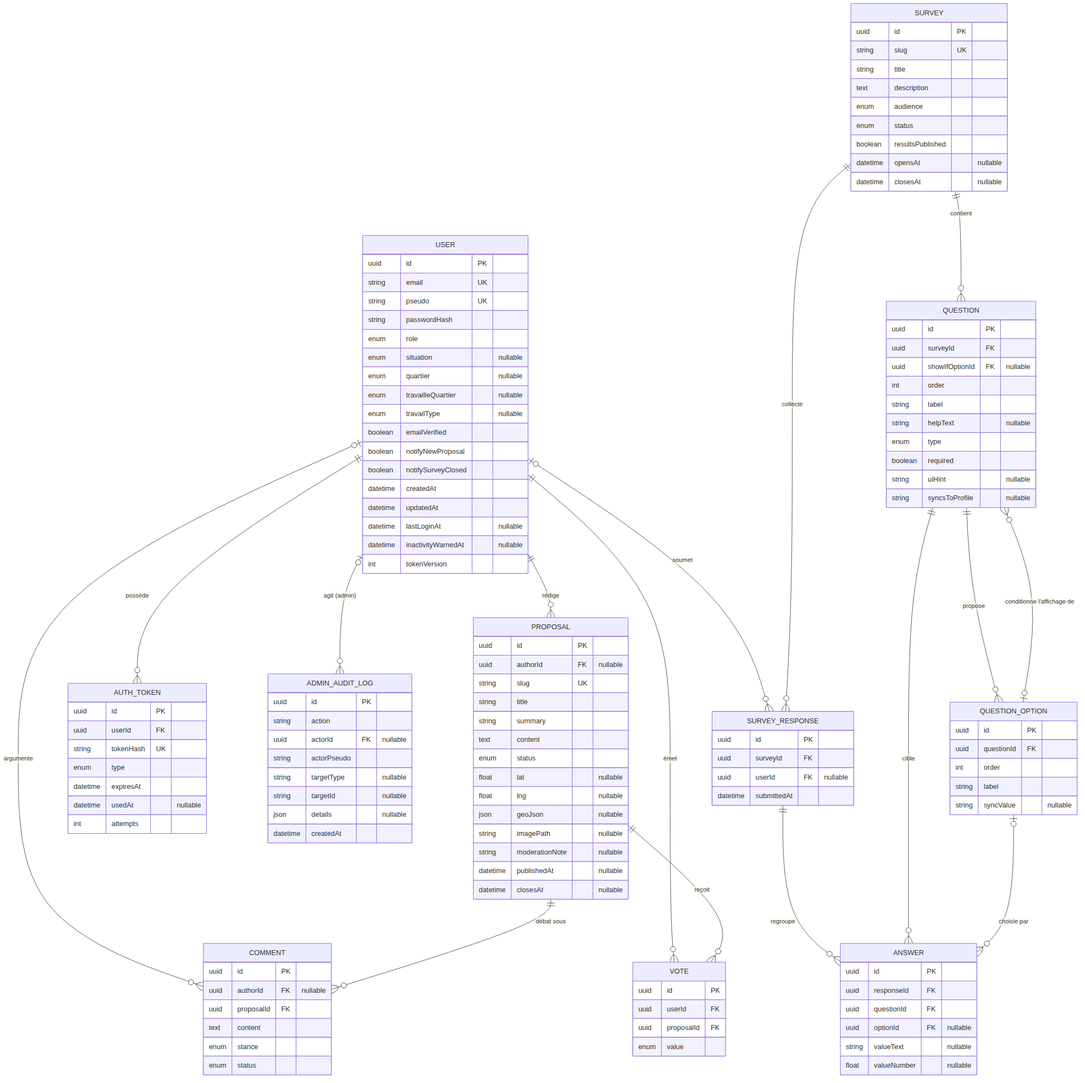
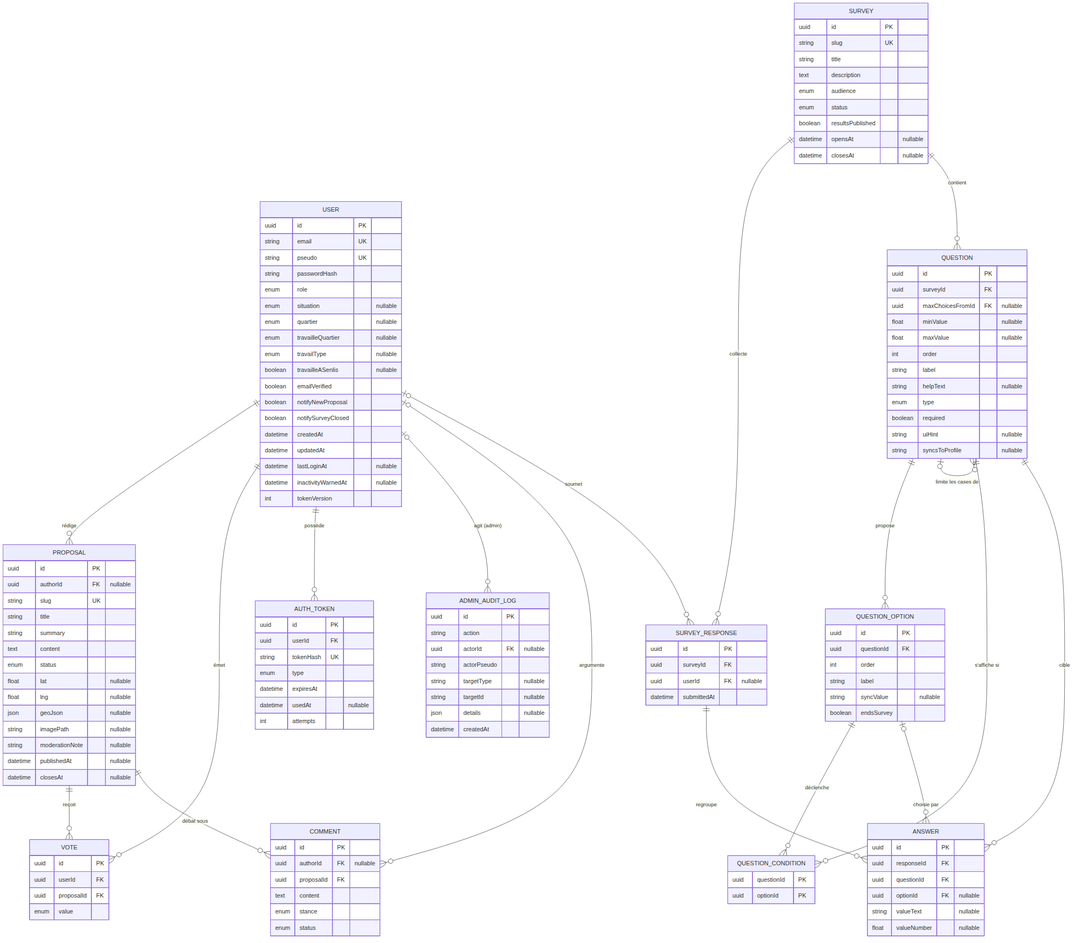
docs: S5R-05 — QuestionCondition, bornes, fin anticipée (02, 03, 08, 19), packages (13), registre (22), kanban (16)

diff --git a/08-merise-mcd-mld-mpd.md b/08-merise-mcd-mld-mpd.md
@@ -102,7 +102,7 @@ flowchart TB
     BULLETIN ---|"1,n"| aREGROUPE ---|"1,1"| REPONSE
     QUESTION ---|"0,n"| aCIBLE ---|"1,1"| REPONSE
     OPTION ---|"0,n"| aCHOISIT ---|"0,1"| REPONSE
-    OPTION ---|"0,n"| aCONDITIONNE ---|"0,1"| QUESTION
+    OPTION ---|"0,n"| aCONDITIONNE ---|"0,n"| QUESTION
 ```
 
 **Lecture des cardinalités sensibles** (côté qui porte le sens métier) :
@@ -113,7 +113,7 @@ flowchart TB
 | BULLETIN `(0,1)` DÉPOSE | Même logique : un bulletin peut devenir anonyme |
 | UTILISATEUR `(0,n)` VOTER `(0,n)` PROPOSITION | Association plusieurs-à-plusieurs **porteuse** de l'attribut {valeur} — elle deviendra une table dans le MLD |
 | QUESTION `(1,1)` CONTIENT | Une question appartient à *exactement une* enquête — pas de question orpheline |
-| QUESTION `(0,1)` CONDITIONNE | Branchement : une question dépend *au plus d'une* option d'une question antérieure (limite assumée : pas de « ET » entre deux conditions) ; `0` = toujours affichée |
+| QUESTION `(0,n)` CONDITIONNE | Une question peut dépendre de **plusieurs** options de questions antérieures, et s'affiche si l'une est choisie (OU — S5R-05) ; `0` = toujours affichée. Association **plusieurs-à-plusieurs** → devient la relation `QuestionCondition` au MLD |
 | ENQUÊTE `(1,n)` CONTIENT | Une enquête contient *au moins une* question — règle métier (une enquête vide n'a pas de sens), vérifiée par l'API à l'ouverture |
 
 ---
@@ -126,7 +126,7 @@ Conventions : <u>souligné</u> = clé primaire · `#préfixe` = clé étrangère
 User (id, email, pseudo, passwordHash, role, situation, quartier,
       travailleQuartier, travailType, emailVerified,
       notifyNewProposal, notifySurveyClosed, createdAt, updatedAt,
-      lastLoginAt, inactivityWarnedAt, tokenVersion)
+      lastLoginAt, inactivityWarnedAt, tokenVersion, travailleASenlis)
      PK : id · UNIQUE : email · UNIQUE : pseudo
 
 AuthToken (id, tokenHash, type, expiresAt, usedAt, attempts, createdAt, #userId)
@@ -149,11 +149,15 @@ Survey (id, slug, title, description, audience, status, resultsPublished,
      PK : id · UNIQUE : slug
 
 Question (id, label, helpText, type, required, "order", uiHint,
-          syncsToProfile, #surveyId, #showIfOptionId)
+          syncsToProfile, minValue, maxValue, #surveyId, #maxChoicesFromId)
      PK : id · FK : surveyId → Survey(id) · UNIQUE : (surveyId, "order")
-     FK : showIfOptionId → QuestionOption(id) [NULLABLE]   ← association CONDITIONNE
+     FK : maxChoicesFromId → Question(id) [NULLABLE]   ← limite de cases (S5R-05)
 
-QuestionOption (id, label, "order", syncValue, #questionId)
+QuestionCondition (#questionId, #optionId)        ← association CONDITIONNE (0,n)-(0,n)
+     PK : (questionId, optionId)
+     FK : questionId → Question(id) · FK : optionId → QuestionOption(id)
+
+QuestionOption (id, label, "order", syncValue, endsSurvey, #questionId)
      PK : id · FK : questionId → Question(id) · UNIQUE : (questionId, "order")
 
 AdminAuditLog (id, action, actorPseudo, targetType, targetId, details, createdAt, #actorId)
@@ -170,15 +174,15 @@ Answer (id, valueText, valueNumber, #responseId, #questionId, #optionId)
      UNIQUE : (responseId, questionId, optionId)
 ```
 
-> 💡 Remarque le destin des cardinalités `(0,1)` du MCD : elles deviennent des clés étrangères **NULLABLE** (`authorId`, `userId`, `optionId`, `showIfOptionId`). Le RGPD conceptuel est devenu une propriété logique.
+> 💡 Remarque le destin des cardinalités du MCD. Une association `(0,n)-(0,n)` comme CONDITIONNE devient une **relation à part entière** (`QuestionCondition`), dont la clé est le couple des deux clés étrangères. Et les cardinalités `(0,1)` : elles deviennent des clés étrangères **NULLABLE** (`authorId`, `userId`, `optionId`, `maxChoicesFromId`). Le RGPD conceptuel est devenu une propriété logique.
 >
-> 🔁 **Question ↔ QuestionOption forment un cycle** (une question possède des options, et peut dépendre de l'option d'une autre question). C'est pourquoi le constructeur d'enquête crée d'abord toutes les questions et options, *puis* renseigne `showIfOptionId` dans un second temps — on ne peut pas pointer vers une option qui n'existe pas encore.
+> 🔁 **Question ↔ QuestionOption forment un cycle** (une question possède des options, et peut dépendre de l'option d'une autre question). C'est pourquoi le constructeur d'enquête crée d'abord toutes les questions et options, *puis* enregistre les conditions (`QuestionCondition`) et les limites de cases dans un second temps (`services/surveyBuilder.js`) — on ne peut pas pointer vers une option qui n'existe pas encore.
 
 ---
 
 ## 3. MPD — Modèle Physique de Données (PostgreSQL)
 
-Reconstitution **fidèle** (réordonnée pour la lecture) de ce que génèrent les migrations Prisma (`api/prisma/migrations/`, 11 migrations du 15/06 au 27/09/2026), cumulées. Trois différences avec un SQL « écrit à la main » à connaître :
+Reconstitution **fidèle** (réordonnée pour la lecture) de ce que génèrent les migrations Prisma (`api/prisma/migrations/`, 12 migrations du 15/06 au 03/10/2026), cumulées. Trois différences avec un SQL « écrit à la main » à connaître :
 
 1. **Identifiants en `TEXT`**, pas en `UUID` : `@default(uuid())` génère l'UUID **dans Node** (Prisma), pas dans PostgreSQL (`gen_random_uuid()` n'est jamais appelé).
 2. **Noms entre guillemets en `camelCase`** (`"passwordHash"`) : sans guillemets, PostgreSQL mettrait tout en minuscules.
@@ -220,7 +224,8 @@ CREATE TABLE "User" (
   "updatedAt"          TIMESTAMP(3) NOT NULL,
   "lastLoginAt"        TIMESTAMP(3),      -- S5A-05 : durée de conservation
   "inactivityWarnedAt" TIMESTAMP(3),
-  "tokenVersion"       INTEGER NOT NULL DEFAULT 0   -- S5A-06 : révocation des sessions
+  "tokenVersion"       INTEGER NOT NULL DEFAULT 0,  -- S5A-06 : révocation des sessions
+  "travailleASenlis"   BOOLEAN                      -- S5R-05 : oui / non / NULL = jamais demandé
 );
 CREATE UNIQUE INDEX "User_email_key"  ON "User"("email");
 CREATE UNIQUE INDEX "User_pseudo_key" ON "User"("pseudo");
@@ -300,7 +305,9 @@ CREATE TABLE "Question" (
   "order"          INTEGER NOT NULL,          -- mot réservé SQL → guillemets
   "uiHint"         TEXT,
   "syncsToProfile" TEXT,
-  "showIfOptionId" TEXT,                       -- FK ajoutée après QuestionOption (cycle)
+  "minValue"       DOUBLE PRECISION,           -- S5R-05 : bornes d'un NOMBRE
+  "maxValue"       DOUBLE PRECISION,
+  "maxChoicesFromId" TEXT REFERENCES "Question"("id") ON DELETE SET NULL ON UPDATE CASCADE,
   "surveyId"       TEXT NOT NULL REFERENCES "Survey"("id") ON DELETE CASCADE ON UPDATE CASCADE
 );
 CREATE UNIQUE INDEX "Question_surveyId_order_key" ON "Question"("surveyId", "order");
@@ -310,14 +317,17 @@ CREATE TABLE "QuestionOption" (
   "label"      TEXT NOT NULL,
   "order"      INTEGER NOT NULL,
   "syncValue"  TEXT,
+  "endsSurvey" BOOLEAN NOT NULL DEFAULT false,   -- S5R-05 : fin anticipée
   "questionId" TEXT NOT NULL REFERENCES "Question"("id") ON DELETE CASCADE ON UPDATE CASCADE
 );
 CREATE UNIQUE INDEX "QuestionOption_questionId_order_key" ON "QuestionOption"("questionId", "order");
 
--- Le branchement : ajouté une fois les deux tables créées
-ALTER TABLE "Question" ADD CONSTRAINT "Question_showIfOptionId_fkey"
-  FOREIGN KEY ("showIfOptionId") REFERENCES "QuestionOption"("id")
-  ON DELETE SET NULL ON UPDATE CASCADE;
+-- S5R-05 : conditions d'affichage (plusieurs par question = OU)
+CREATE TABLE "QuestionCondition" (
+  "questionId" TEXT NOT NULL REFERENCES "Question"("id")       ON DELETE CASCADE ON UPDATE CASCADE,
+  "optionId"   TEXT NOT NULL REFERENCES "QuestionOption"("id") ON DELETE CASCADE ON UPDATE CASCADE,
+  CONSTRAINT "QuestionCondition_pkey" PRIMARY KEY ("questionId", "optionId")
+);
 
 -- S5A-06 : main courante des actions d'administration (6 mois)
 CREATE TABLE "AdminAuditLog" (

diff --git a/02-diagramme-erd.md b/02-diagramme-erd.md
@@ -1,6 +1,6 @@
 # Diagramme ERD — Senlis Participatif
 
-> Schéma de la base de données (v1.4 — état au 27/09/2026, après la migration `add_auth_hardening` de S5A-06) — source de vérité : `api/prisma/schema.prisma` du dépôt de code (copie de référence : `19-schema.prisma`).
+> Schéma de la base de données (v1.5 — état au 03/10/2026, après la migration `survey_engine_v2` de S5R-05) — source de vérité : `api/prisma/schema.prisma` du dépôt de code (copie de référence : `19-schema.prisma`).
 > Légende : `||--o{` = un-à-plusieurs · `|o--o{` = la clé étrangère est **nullable** (pseudonymisation RGPD, ou lien optionnel : le lien peut être rompu sans perdre la donnée).
 >
 > **Ce qui a changé depuis la v1.1** (Sprint 3 et Sprint 5bis) : image de proposition (`imagePath`), code 2FA admin (`TWO_FACTOR_LOGIN`), profil déclaré du citoyen sur deux axes indépendants — résidence (`situation`, `quartier`) et travail (`travailleQuartier`, `travailType`) —, publication des résultats d'enquête soumise à l'admin (`resultsPublished`), branchement conditionnel de questions (`showIfOptionId`, relation réflexive QUESTION → QUESTION_OPTION), indicateur de rendu (`uiHint`) et synchronisation réponse → profil (`syncsToProfile` / `syncValue`).
@@ -18,7 +18,9 @@ erDiagram
     SURVEY ||--o{ SURVEY_RESPONSE : "collecte"
     SURVEY ||--o{ QUESTION : "contient"
     QUESTION ||--o{ QUESTION_OPTION : "propose"
-    QUESTION_OPTION |o--o{ QUESTION : "conditionne l'affichage de"
+    QUESTION ||--o{ QUESTION_CONDITION : "s'affiche si"
+    QUESTION_OPTION ||--o{ QUESTION_CONDITION : "déclenche"
+    QUESTION |o--o{ QUESTION : "limite les cases de"
     SURVEY_RESPONSE ||--o{ ANSWER : "regroupe"
     QUESTION ||--o{ ANSWER : "cible"
     QUESTION_OPTION |o--o{ ANSWER : "choisie par"
@@ -33,6 +35,7 @@ erDiagram
         enum quartier "nullable"
         enum travailleQuartier "nullable"
         enum travailType "nullable"
+        boolean travailleASenlis "nullable"
         boolean emailVerified
         boolean notifyNewProposal
         boolean notifySurveyClosed
@@ -105,7 +108,9 @@ erDiagram
     QUESTION {
         uuid id PK
         uuid surveyId FK
-        uuid showIfOptionId FK "nullable"
+        uuid maxChoicesFromId FK "nullable"
+        float minValue "nullable"
+        float maxValue "nullable"
         int order
         string label
         string helpText "nullable"
@@ -120,6 +125,11 @@ erDiagram
         int order
         string label
         string syncValue "nullable"
+        boolean endsSurvey
+    }
+    QUESTION_CONDITION {
+        uuid questionId PK
+        uuid optionId PK
     }
     SURVEY_RESPONSE {
         uuid id PK
@@ -137,7 +147,9 @@ erDiagram
     }
 ```
 
-> 💡 **La relation réflexive du branchement.** `QUESTION.showIfOptionId` pointe vers une option d'une *autre* question de la même enquête. Analogie : un panneau « Déviation — seulement si vous avez pris la sortie 3 ». Si l'option déclencheuse est supprimée, la question redevient « toujours affichée » (`SET NULL`) au lieu d'être détruite en cascade.
+> 💡 **Les conditions d'affichage (S5R-05).** Une question peut avoir **plusieurs** conditions, rangées dans `QUESTION_CONDITION` : elle s'affiche si **l'une d'elles** est remplie (OU). Analogie : une porte avec plusieurs badges autorisés — n'importe lequel ouvre. Si l'option déclencheuse est supprimée, seule la condition disparaît (`CASCADE` sur la table de liaison) : la question, elle, reste — « toujours affichée » s'il ne lui reste aucune condition. Avant S5R-05, une seule condition était possible (`QUESTION.showIfOptionId`, supprimé ; les anciens branchements ont été recopiés par la migration).
+>
+> 🔁 **`QUESTION.maxChoicesFromId`** relie une question à choix multiple à une question « Nombre » précédente : pas plus de cases cochées que la réponse donnée (ex. lieux de stationnement ≤ nombre de véhicules).
 
 ## Contraintes d'unicité métier (l'« isoloir numérique »)
 
@@ -146,6 +158,7 @@ erDiagram
 | VOTE | `UNIQUE(userId, proposalId)` | Un citoyen = un vote par proposition |
 | SURVEY_RESPONSE | `UNIQUE(userId, surveyId)` | Un citoyen = une réponse par enquête (les bulletins anonymisés, `userId = NULL`, ne se gênent pas : PostgreSQL considère deux `NULL` comme distincts) |
 | ANSWER | `UNIQUE(responseId, questionId, optionId)` | Pas de double coche d'une même option |
+| QUESTION_CONDITION | `PRIMARY KEY(questionId, optionId)` | La même condition n'est jamais enregistrée deux fois |
 | QUESTION | `UNIQUE(surveyId, order)` | Ordre des questions sans doublon |
 | QUESTION_OPTION | `UNIQUE(questionId, order)` | Ordre des options sans doublon |
 
@@ -161,6 +174,7 @@ erDiagram
 | User → SurveyResponse | SET NULL | Les statistiques agrégées survivent à la désinscription |
 | Proposal → Vote / Comment | CASCADE | Sans la proposition, plus d'objet |
 | Survey → Question → Option → Answer | CASCADE | Suppression en chaîne d'une enquête entière |
-| QuestionOption → Question (branchement) | SET NULL | Retoucher une option ne doit jamais détruire une *autre* question |
+| Question / QuestionOption → QuestionCondition | CASCADE | Une condition n'a plus de sens sans sa question ou son option — la question conditionnée, elle, reste |
+| Question → Question (limite de cases) | SET NULL | Supprimer la question « Nombre » de référence lève la limite, sans toucher à la question limitée |
 
 > ⚠ **Limite RGPD à connaître** : l'anonymisation par `SET NULL` rompt le lien au compte, mais une réponse `TEXTE_LIBRE` peut elle-même contenir une donnée identifiante (« j'habite au 12 rue X »). Voir l'audit `21-audit-securite-rgpd-accessibilite.md`.

diff --git a/03-dictionnaire-de-donnees.md b/03-dictionnaire-de-donnees.md
@@ -1,6 +1,6 @@
 # Dictionnaire de données — Senlis Participatif
 
-> Dérivé de `schema.prisma` v1.4 — état au 27/09/2026 (11 entités, 12 énumérations). Convention : tous les identifiants sont des UUID **générés par Prisma côté application** (`@default(uuid())`) et stockés en `TEXT` ; toutes les dates sont des `DateTime` UTC (`TIMESTAMP(3)` en base).
+> Dérivé de `schema.prisma` v1.4 — état au 27/09/2026 (12 entités, 12 énumérations). Convention : tous les identifiants sont des UUID **générés par Prisma côté application** (`@default(uuid())`) et stockés en `TEXT` ; toutes les dates sont des `DateTime` UTC (`TIMESTAMP(3)` en base).
 
 ## USER — compte citoyen ou administratrice
 
@@ -19,6 +19,7 @@
 | notifyNewProposal | Boolean | défaut `true` | Préférence : être notifié des nouvelles propositions (Lot 2) |
 | lastLoginAt | DateTime | NULL | Dernière connexion réussie (après le code 2FA pour un admin). NULL pour les comptes antérieurs au champ → l'inactivité se compte depuis `createdAt` (S5A-05) |
 | inactivityWarnedAt | DateTime | NULL | Date de l'email d'avertissement avant suppression pour inactivité ; remis à NULL à la connexion suivante (S5A-05) |
+| travailleASenlis | Boolean | NULL | « Travaille à Senlis » dit explicitement : oui / non / NULL = jamais demandé (S5R-05). Un quartier de travail renseigné implique « oui » ; « non » efface quartier et rôle de travail |
 | tokenVersion | Int | défaut 0 | Numéro de « serrure » recopié dans chaque JWT (`tv`) ; incrémenté à chaque changement ou réinitialisation du mot de passe → toutes les sessions antérieures sont révoquées (S5A-06) |
 | notifySurveyClosed | Boolean | défaut `true` | Préférence : être notifié des clôtures d'enquête (Lot 2) |
 | createdAt / updatedAt | DateTime | auto | Traçabilité |
@@ -103,8 +104,9 @@
 | required | Boolean | défaut `true` | Réponse obligatoire ou non |
 | order | Int | NOT NULL | Position dans le questionnaire |
 | uiHint | String | NULL | Indicateur de rendu, seulement pour `TEXTE_LIBRE` — ex. `VILLE_FR` : suggestions de communes via l'API officielle `geo.api.gouv.fr` (stockage et agrégation inchangés) |
-| syncsToProfile | String | NULL | `situation` \| `quartier` \| `travailleQuartier` \| `travailType` — la réponse met aussi à jour ce champ du profil (après le COMMIT, jamais à sa place). Réservé à `CHOIX_UNIQUE` (Zod) ; `OUI_NON` sert au seul préremplissage |
-| showIfOptionId | UUID | FK → QUESTION_OPTION, NULL, SET NULL | Branchement : la question ne s'affiche que si cette option d'une question **antérieure** a été choisie (une seule condition par question) |
+| syncsToProfile | String | NULL | `situation` \| `quartier` \| `travailleQuartier` \| `travailType` \| `travailleASenlis` (Oui/Non, S5R-05) — la réponse met aussi à jour ce champ du profil (après le COMMIT, jamais à sa place). Réservé à `CHOIX_UNIQUE` (Zod) ; `OUI_NON` sert au seul préremplissage |
+| minValue / maxValue | Float | NULL | NOMBRE uniquement : bornes de la réponse (ex. au moins 1 véhicule professionnel) — vérifiées par l'API et le navigateur (S5R-05) |
+| maxChoicesFromId | UUID | FK → QUESTION, NULL, SET NULL | CHOIX_MULTIPLE uniquement : pas plus de cases que la réponse à cette question « Nombre » précédente (S5R-05) |
 | surveyId | UUID | FK → SURVEY, CASCADE | Enquête parente |
 | — | — | **UNIQUE(surveyId, order)** | Pas deux questions au même rang |
 
@@ -115,7 +117,8 @@
 | id | UUID | PK | Identifiant unique |
 | label | String | NOT NULL | Libellé (« Box ou garage privé », « Voirie payante »…) |
 | order | Int | NOT NULL | Position d'affichage |
-| syncValue | String | NULL | Valeur d'enum exacte écrite dans le profil quand cette option est choisie (ex. `CENTRE_RESIDENT`) — pont explicite entre un libellé français et une valeur technique |
+| syncValue | String | NULL | Valeur d'enum exacte écrite dans le profil quand cette option est choisie (ex. `CENTRE_RESIDENT`) — pont explicite entre un libellé français et une valeur technique ; `'true'` / `'false'` pour « travaille à Senlis » |
+| endsSurvey | Boolean | défaut false | Choisir cette option termine l'enquête : plus aucune question n'est posée après (CHOIX_UNIQUE, OUI_NON — S5R-05) |
 | questionId | UUID | FK → QUESTION, CASCADE | Question parente |
 | — | — | **UNIQUE(questionId, order)** | Pas deux options au même rang |
 
@@ -142,6 +145,15 @@
 | — | — | **UNIQUE(responseId, questionId, optionId)** | Pas de double coche |
 
 > Règle d'intégrité applicative (validée par Zod, en complément des contraintes SQL) : **une seule** des trois valeurs (`optionId`, `valueText`, `valueNumber`) est renseignée, en cohérence avec le `type` de la question.
+
+## QUESTION_CONDITION — condition d'affichage d'une question (S5R-05)
+
+| Attribut | Type | Contraintes | Description |
+|---|---|---|---|
+| questionId | UUID | PK (composée), FK → QUESTION, CASCADE | La question conditionnée |
+| optionId | UUID | PK (composée), FK → QUESTION_OPTION, CASCADE | L'option (d'une question **antérieure**) qui la fait apparaître |
+
+> Plusieurs lignes pour une même question = « OU » : elle s'affiche si l'une des options a été choisie. Aucune ligne = question toujours affichée. Remplace l'ancien champ `QUESTION.showIfOptionId` (une seule condition possible).
 
 ## ADMIN_AUDIT_LOG — Journal des actions d'administration (S5A-06)
 

diff --git a/16-kanban-issues-complet.md b/16-kanban-issues-complet.md
@@ -165,8 +165,8 @@
 | **S5R-02** | **`fix(client): formulaires d'authentification — erreur sous chaque champ dès la sortie du champ, format d'email + suggestion de faute de frappe, œil à la connexion, quartier et rôle obligatoires si « je travaille à Senlis »`** ✅ | **`lot:1` `type:bug` `zone:client` `prio:haute`** | **`fix/auth-forms-inline-errors`** | **1 j** | **J73** |
 | **S5R-03** | **`fix(client): module d'accessibilité — panneau défilant et bouton Fermer toujours atteignable, interlignage sur 3 niveaux + espacements lettres/mots/paragraphes (WCAG 1.4.12)`** ✅ | **`lot:1` `type:bug` `zone:client` `prio:haute`** | **`fix/a11y-widget-spacing`** | **0,5 j** | **J74** |
 | **S5R-02b** | **`feat(api): vérification DNS du domaine de l'email — MX puis A/AAAA (« MX implicite »), « null MX » refusé, délai 2 s, tolérance aux pannes DNS (dans le doute, on accepte) — à l'inscription, au changement d'email et au renvoi du lien`** ✅ | **`lot:1` `type:feature` `zone:api`** | **`feat/email-domain-dns-check`** | **0,5 j** | **J74** |
-| **S5R-04** | **`fix(client): accueil fidèle à la maquette — un seul cerf, guide « Cerf-tifié utile » avec questions fréquentes`** | **`lot:1` `type:design` `zone:client`** | **`fix/home-mascot-guide`** | **1 j** | **J75** |
-| **S5R-05** | **`feat(api+bdd+client): moteur d'enquête v2 — total de questions adapté au parcours, conditions multiples (OU), fin anticipée, bornes min/max d'un nombre, nombre de choix max lié à une réponse, profil « travaille à Senlis » explicite`** | **`lot:1` `type:feature` `zone:api` `zone:bdd` `zone:client` `prio:haute`** | **`feat/survey-engine-v2`** | **2 j** | **J76–J77** |
+| **S5R-04** | **`fix(client): accueil fidèle à la maquette — un seul cerf, guide « Cerf-tifié utile » avec questions fréquentes`** ✅ | **`lot:1` `type:design` `zone:client`** | **`fix/home-mascot-guide`** | **1 j** | **J75** |
+| **S5R-05** | **`feat(api+bdd+client): moteur d'enquête v2 — total de questions adapté au parcours, conditions multiples (OU), fin anticipée, bornes min/max d'un nombre, nombre de choix max lié à une réponse, profil « travaille à Senlis » explicite`** ✅ | **`lot:1` `type:feature` `zone:api` `zone:bdd` `zone:client` `prio:haute`** | **`feat/survey-engine-v2`** | **2 j** | **J76–J77** |
 | **S5R-06** | **`feat(data): enquête stationnement v3 — parcours par profil, questions clés obligatoires, « Autre → laquelle ? », questions propres au centre historique, visiteurs venant en centre-ville`** | **`lot:1` `type:feature` `zone:bdd`** | **`feat/parking-survey-v3`** | **1 j** | **J78** |
 | **S5R-07** | **`feat(api+bdd+client): public visé d'une enquête par critères de profil (résidence, quartier, travail, rôle, hors Senlis)`** | **`lot:1` `type:feature` `zone:api` `zone:bdd` `zone:client`** | **`feat/survey-audience-profiles`** | **1 j** | **J79** |
 | **S5R-08** | **`feat(api+client): résultats d'enquête lisibles — filtre par public puis par question, graphiques, export CSV et JSON (secret statistique conservé)`** | **`lot:1` `type:feature` `zone:api` `zone:client` `prio:haute`** | **`feat/survey-results-charts-export`** | **2 j** | **J80–J81** |

diff --git a/13-diagramme-package.md b/13-diagramme-package.md
@@ -16,7 +16,7 @@ flowchart TB
             CTX["contexts/<br/>AuthContext (useAuth), AccessibilityContext,<br/>ToastContext"]
             HOOKS["hooks/<br/>useCountUp, useIsVisible,<br/>**useScrollReveal**, usePageTitle,<br/>useFieldValidation"]
             CONST["constants/ + data/<br/>statuts, situations/quartiers,<br/>parkings de report"]
-            SRV_C["services/ + utils/<br/>api.js (unique porte vers /api/v1),<br/>routeAnnouncer, download, voteStats, safeRedirect,<br/>formValidation, registerDraft, verifyEmailOnce"]
+            SRV_C["services/ + utils/<br/>api.js (unique porte vers /api/v1),<br/>routeAnnouncer, download, voteStats, safeRedirect,<br/>formValidation, registerDraft, verifyEmailOnce,<br/>surveyFlow"]
             STYLES["styles/<br/>variables, mixins, global,<br/>**_animations, _mascot, _joy-layer**,<br/>_accessibility"]
             PUB["public/data/<br/>iris-senlis.geojson (jamais importé en JS)"]
             PAGES --> COMP --> HOOKS
@@ -33,8 +33,8 @@ flowchart TB
             ROUTES["routes/<br/>health, auth, proposals, surveys,<br/>stats, users (admin)<br/><i>comments : Lot 2</i>"]
             MIDDLE["middlewares/<br/>auth (auth, optionalAuth, isAdmin,<br/>requireVerifiedEmail), validate (Zod),<br/>upload (Multer), errorHandler"]
             CTRL["controllers/<br/>auth, proposals, surveys,<br/>stats, users"]
-            SRV_A["services/<br/>email.js (Nodemailer), token.js<br/>(jetons + codes 2FA)"]
-            LIB["lib/<br/>prisma, jwt, slug,<br/>imageProcessing (Sharp), validateEnv"]
+            SRV_A["services/<br/>email.js (Nodemailer), token.js (jetons + codes 2FA),<br/>audit, retention, surveyBuilder"]
+            LIB["lib/<br/>prisma, jwt, slug, privacy, emailDomain,<br/>imageProcessing (Sharp), validateEnv,<br/>surveyFlow"]
             VALID["validators/<br/>auth, proposals, surveys, users (Zod)"]
             PRISMA["prisma/<br/>schema.prisma, migrations/,<br/>seed.js (démo), seed-prod.js (réel)"]
             ROUTES --> MIDDLE --> CTRL --> SRV_A

diff --git a/23-retours-recette-2026-09-30.md b/23-retours-recette-2026-09-30.md
@@ -141,7 +141,7 @@ Total estimé : **14,5 jours** (S5R-02b comprise). La mise en ligne réelle (Spr
 
 ### 4.1 Pourquoi deux cerfs sur l'accueil ?
 
-Il y a deux composants différents : `Mascot` (le grand cerf illustratif du hero, avec sa bulle « Bienvenue à Senlis ! ») et `MascotWidget` (le petit cerf flottant « Découvrez le site ! », présent sur toutes les pages). Sur l'accueil, les deux s'affichent en même temps et racontent la même chose. Dans la maquette (prototype `17`), le cerf flottant est un vrai **guide** : un panneau « Cerf-tifié utile ! » avec un message d'accueil et des questions fréquentes (« Comment voter ? », « Mes données ? », « Pourquoi participer ? »). S5R-04 rétablit ce guide et garde un seul cerf visible à la fois sur l'accueil.
+Il y a deux composants différents : `Mascot` (le grand cerf illustratif du hero, avec sa bulle « Bienvenue à Senlis ! ») et `MascotWidget` (le petit cerf flottant « Découvrez le site ! », présent sur toutes les pages). Sur l'accueil, les deux s'affichent en même temps et racontent la même chose. Dans la maquette (prototype `17`), le cerf flottant est un vrai **guide** : un panneau « Cerf-tifié utile ! » avec un message d'accueil et des questions fréquentes (« Comment voter ? », « Mes données ? », « Pourquoi participer ? »). S5R-04 rétablit ce guide : le petit cerf en pied devient un **bouton rond** (le visage du cerf) qui ouvre le panneau d'aide, et seul le grand cerf de l'accueil reste « en pied ». Écarts volontaires avec la maquette : coin bas-gauche (le bas-droit est réservé au bouton ♿), contrastes corrigés (le blanc et le doré de la maquette n'atteignaient que 2,2:1), et réponse « Mes données ? » rendue exacte — la maquette promettait que « personne ne peut relier vos réponses à vous », ce qui est faux tant que le compte existe.
 
 ### 4.2 L'interligne actuel répond-il au RGAA ?
 

diff --git a/22-registre-des-traitements.md b/22-registre-des-traitements.md
@@ -35,7 +35,7 @@
 |---|---|
 | Finalité | Proposer à chacun les enquêtes qui le concernent ; produire des résultats agrégés par type de public |
 | Base légale | Exécution du service (art. 6.1.b) ; statistiques agrégées : intérêt légitime (art. 6.1.f) — mise en balance : données auto-déclaratives, peu intrusives, jamais publiées individuellement, groupes < 5 masqués ; droit d'opposition ouvert |
-| Données | Situation de résidence, quartier de résidence, quartier de travail, rôle (commerçant·e / salarié·e) |
+| Données | Situation de résidence, quartier de résidence, travaille à Senlis (oui / non / non renseigné), quartier de travail, rôle (commerçant·e / salarié·e) |
 | Destinataires | Éditrice ; résultats **agrégés** : public et, le cas échéant, élus municipaux |
 | Transferts hors UE | Aucun |
 | Durée | Celle du compte |
